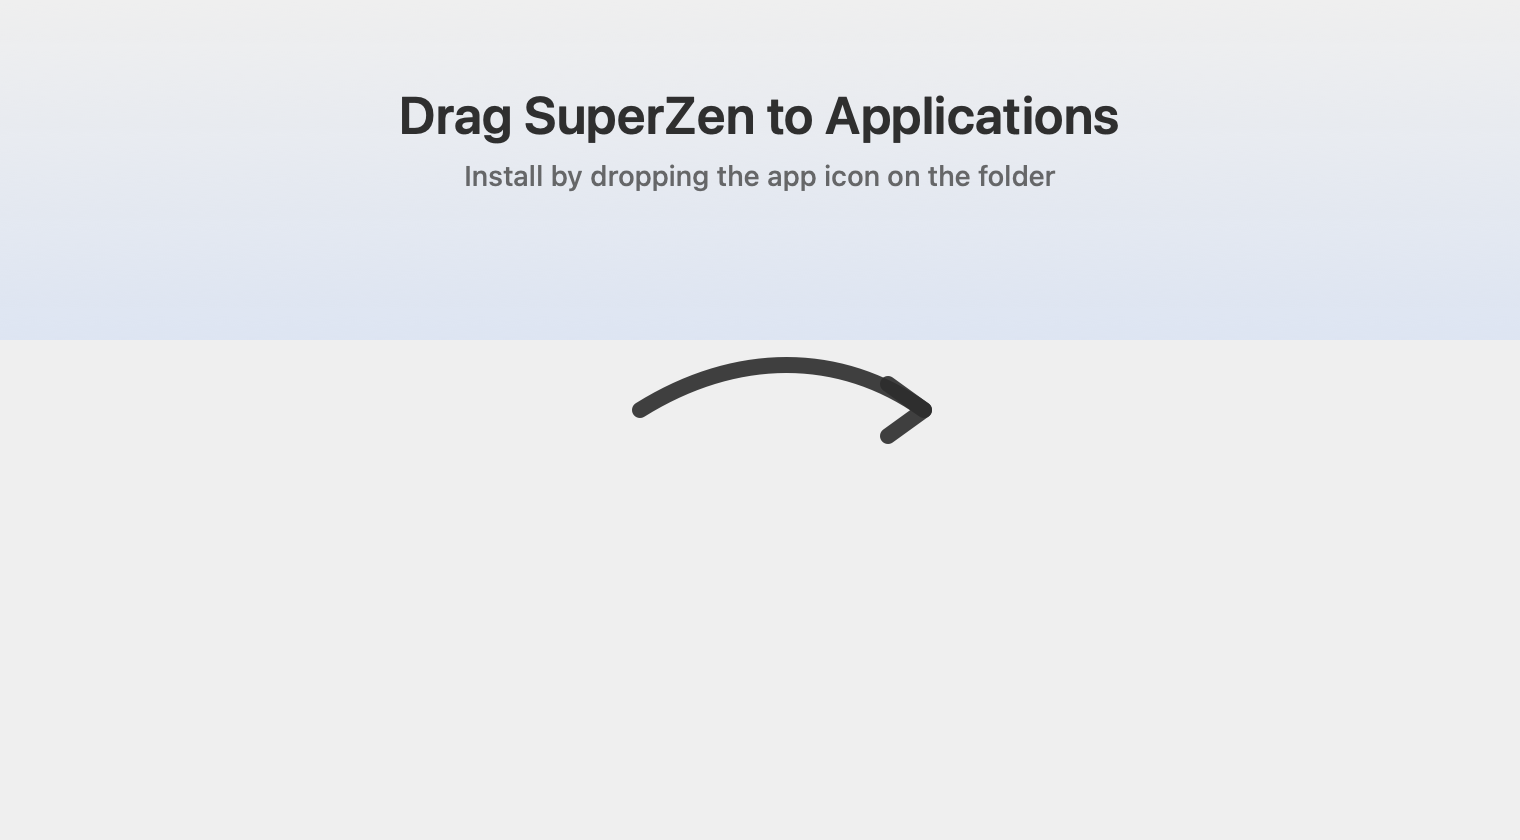
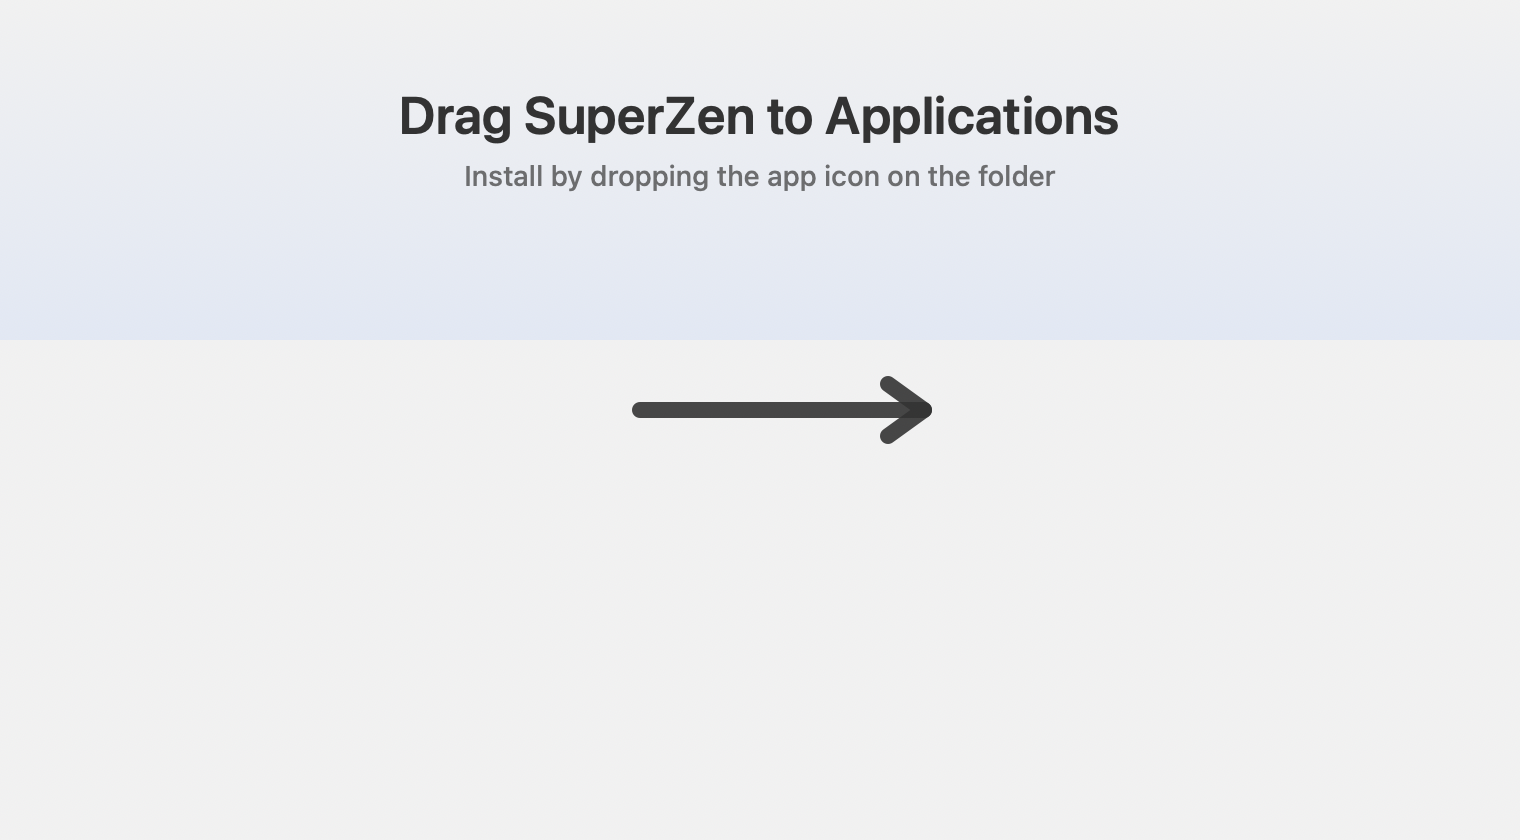
fix: replace curved DMG install arrow with straight arrow

Changed region(s): [[0.402, 0.4024, 0.6184, 0.4952]]

diff --git a/scripts/generate_dmg_background.swift b/scripts/generate_dmg_background.swift
@@ -26,11 +26,7 @@ arrowPath.lineWidth = 8
 arrowPath.lineCapStyle = .round
 arrowPath.lineJoinStyle = .round
 arrowPath.move(to: NSPoint(x: 320, y: 215))
-arrowPath.curve(
-  to: NSPoint(x: 462, y: 215),
-  controlPoint1: NSPoint(x: 368, y: 245),
-  controlPoint2: NSPoint(x: 420, y: 245)
-)
+arrowPath.line(to: NSPoint(x: 462, y: 215))
 NSColor(calibratedWhite: 0.15, alpha: 0.9).setStroke()
 arrowPath.stroke()
 